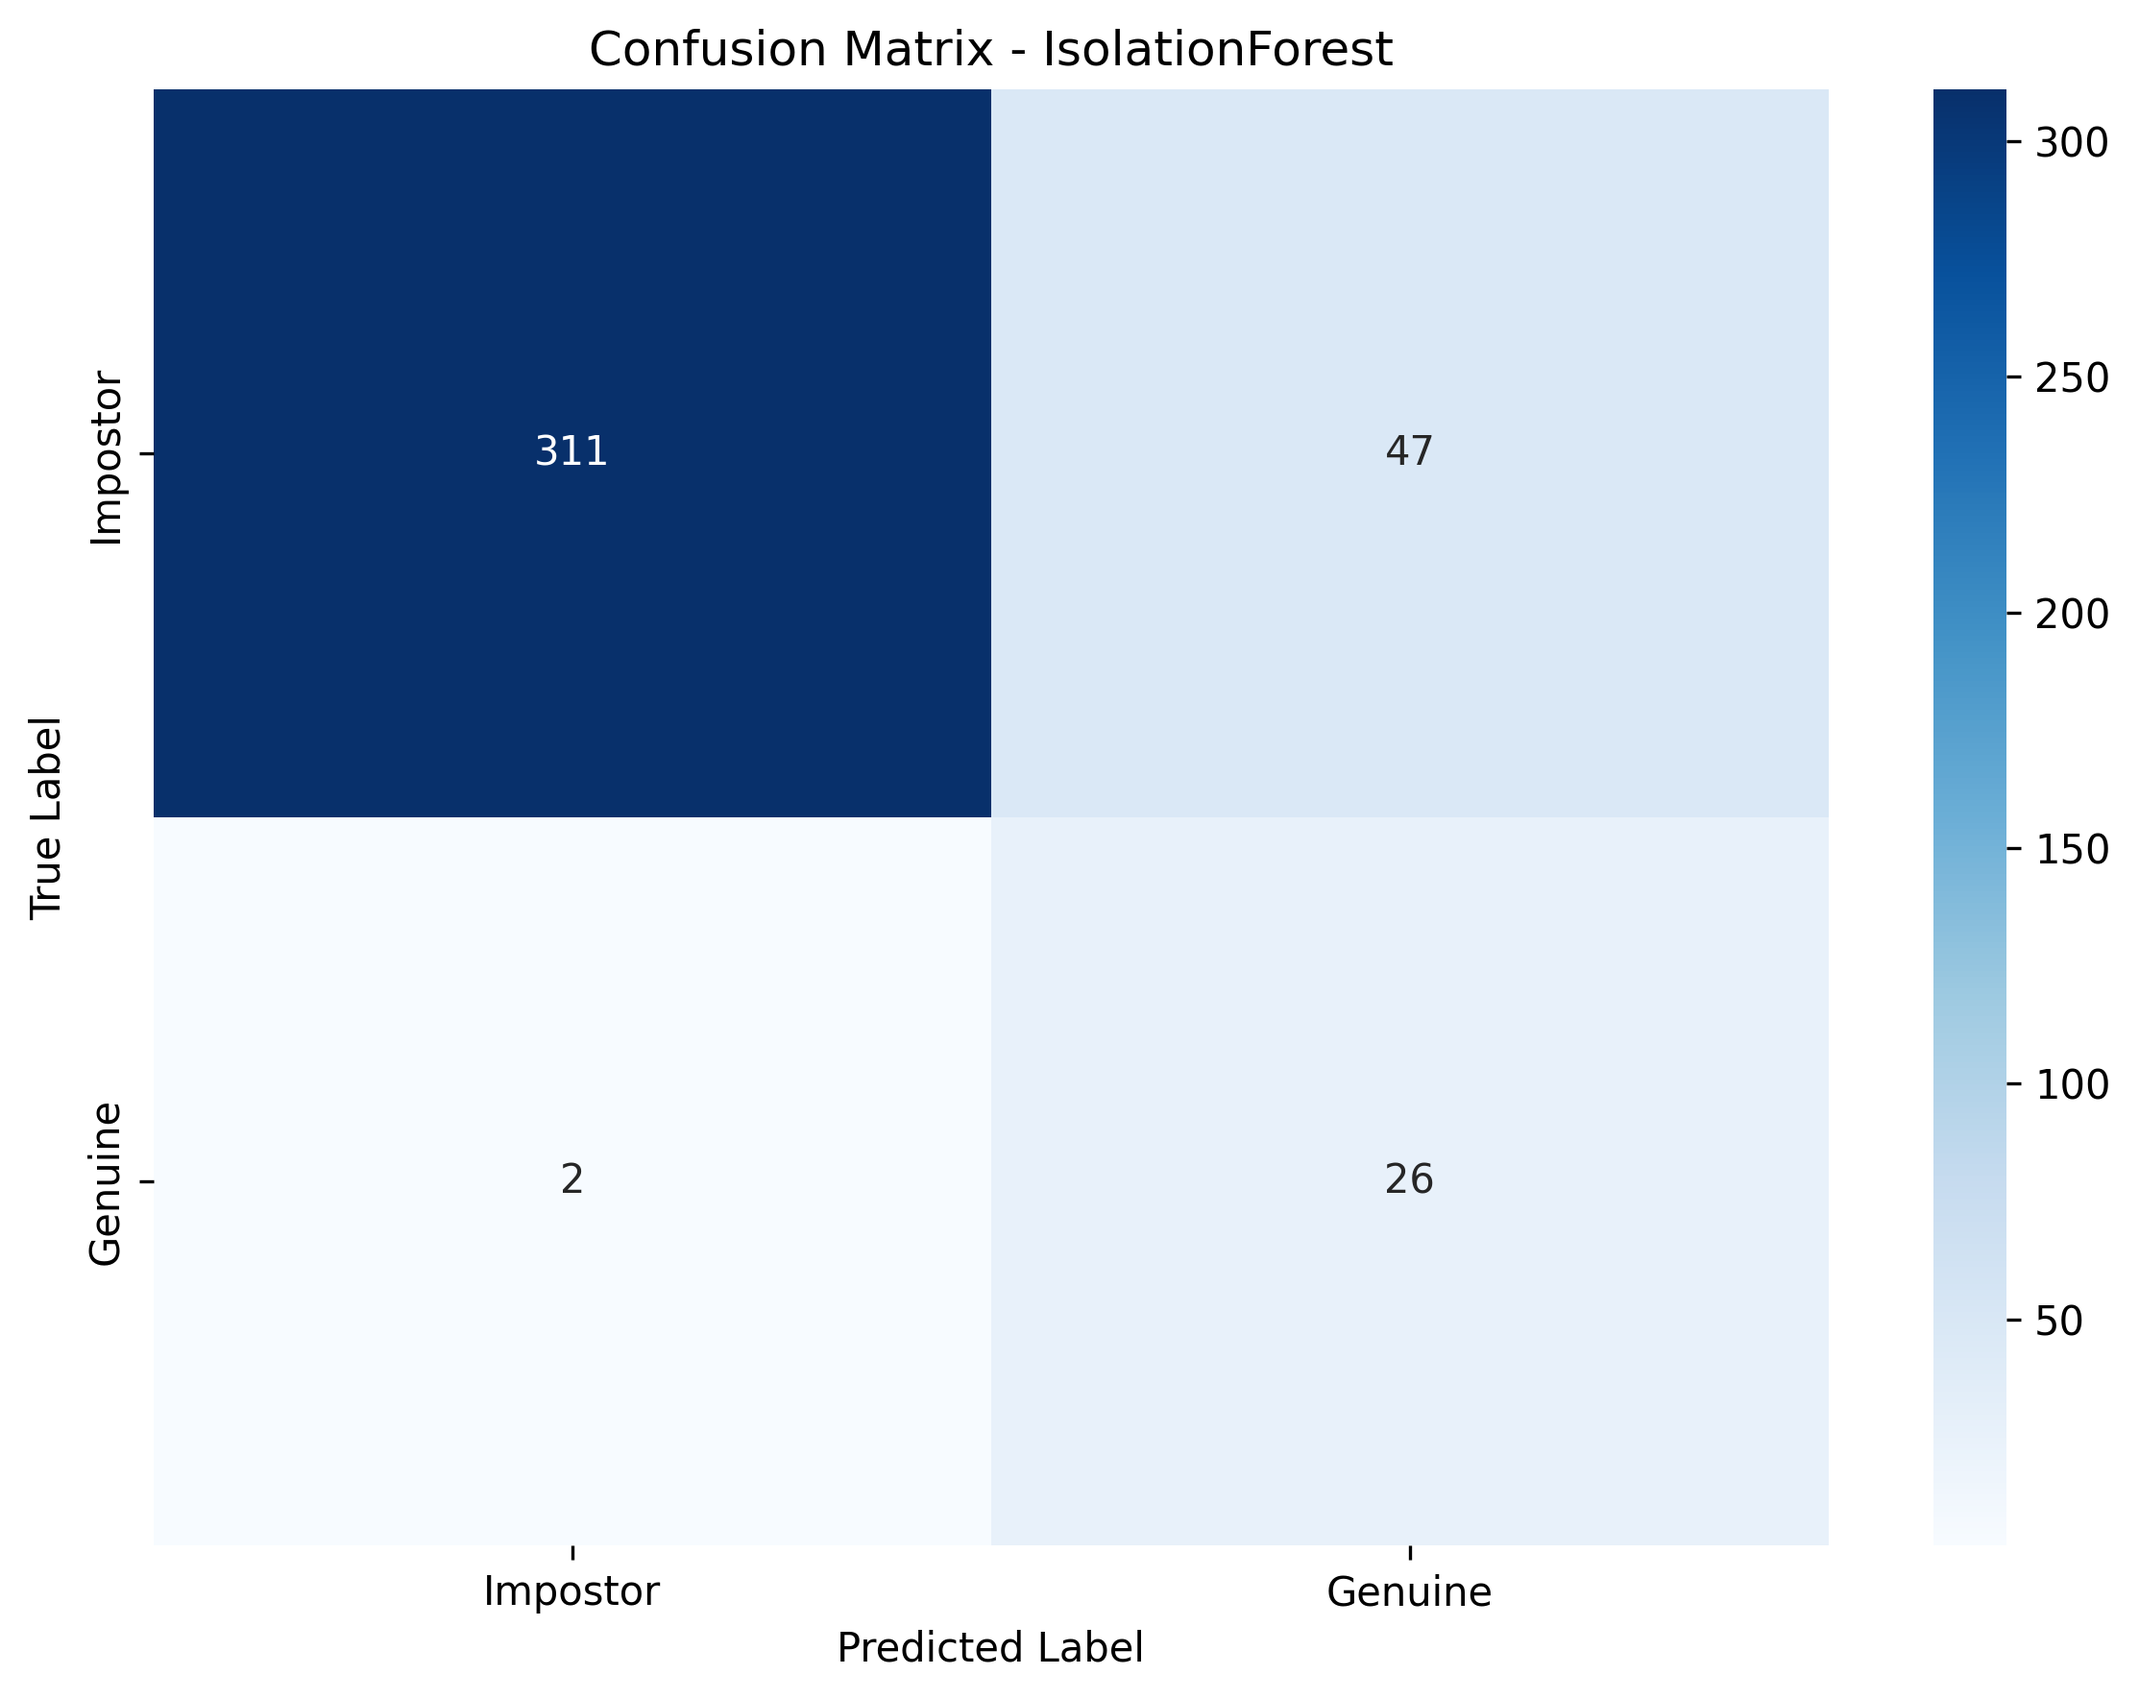
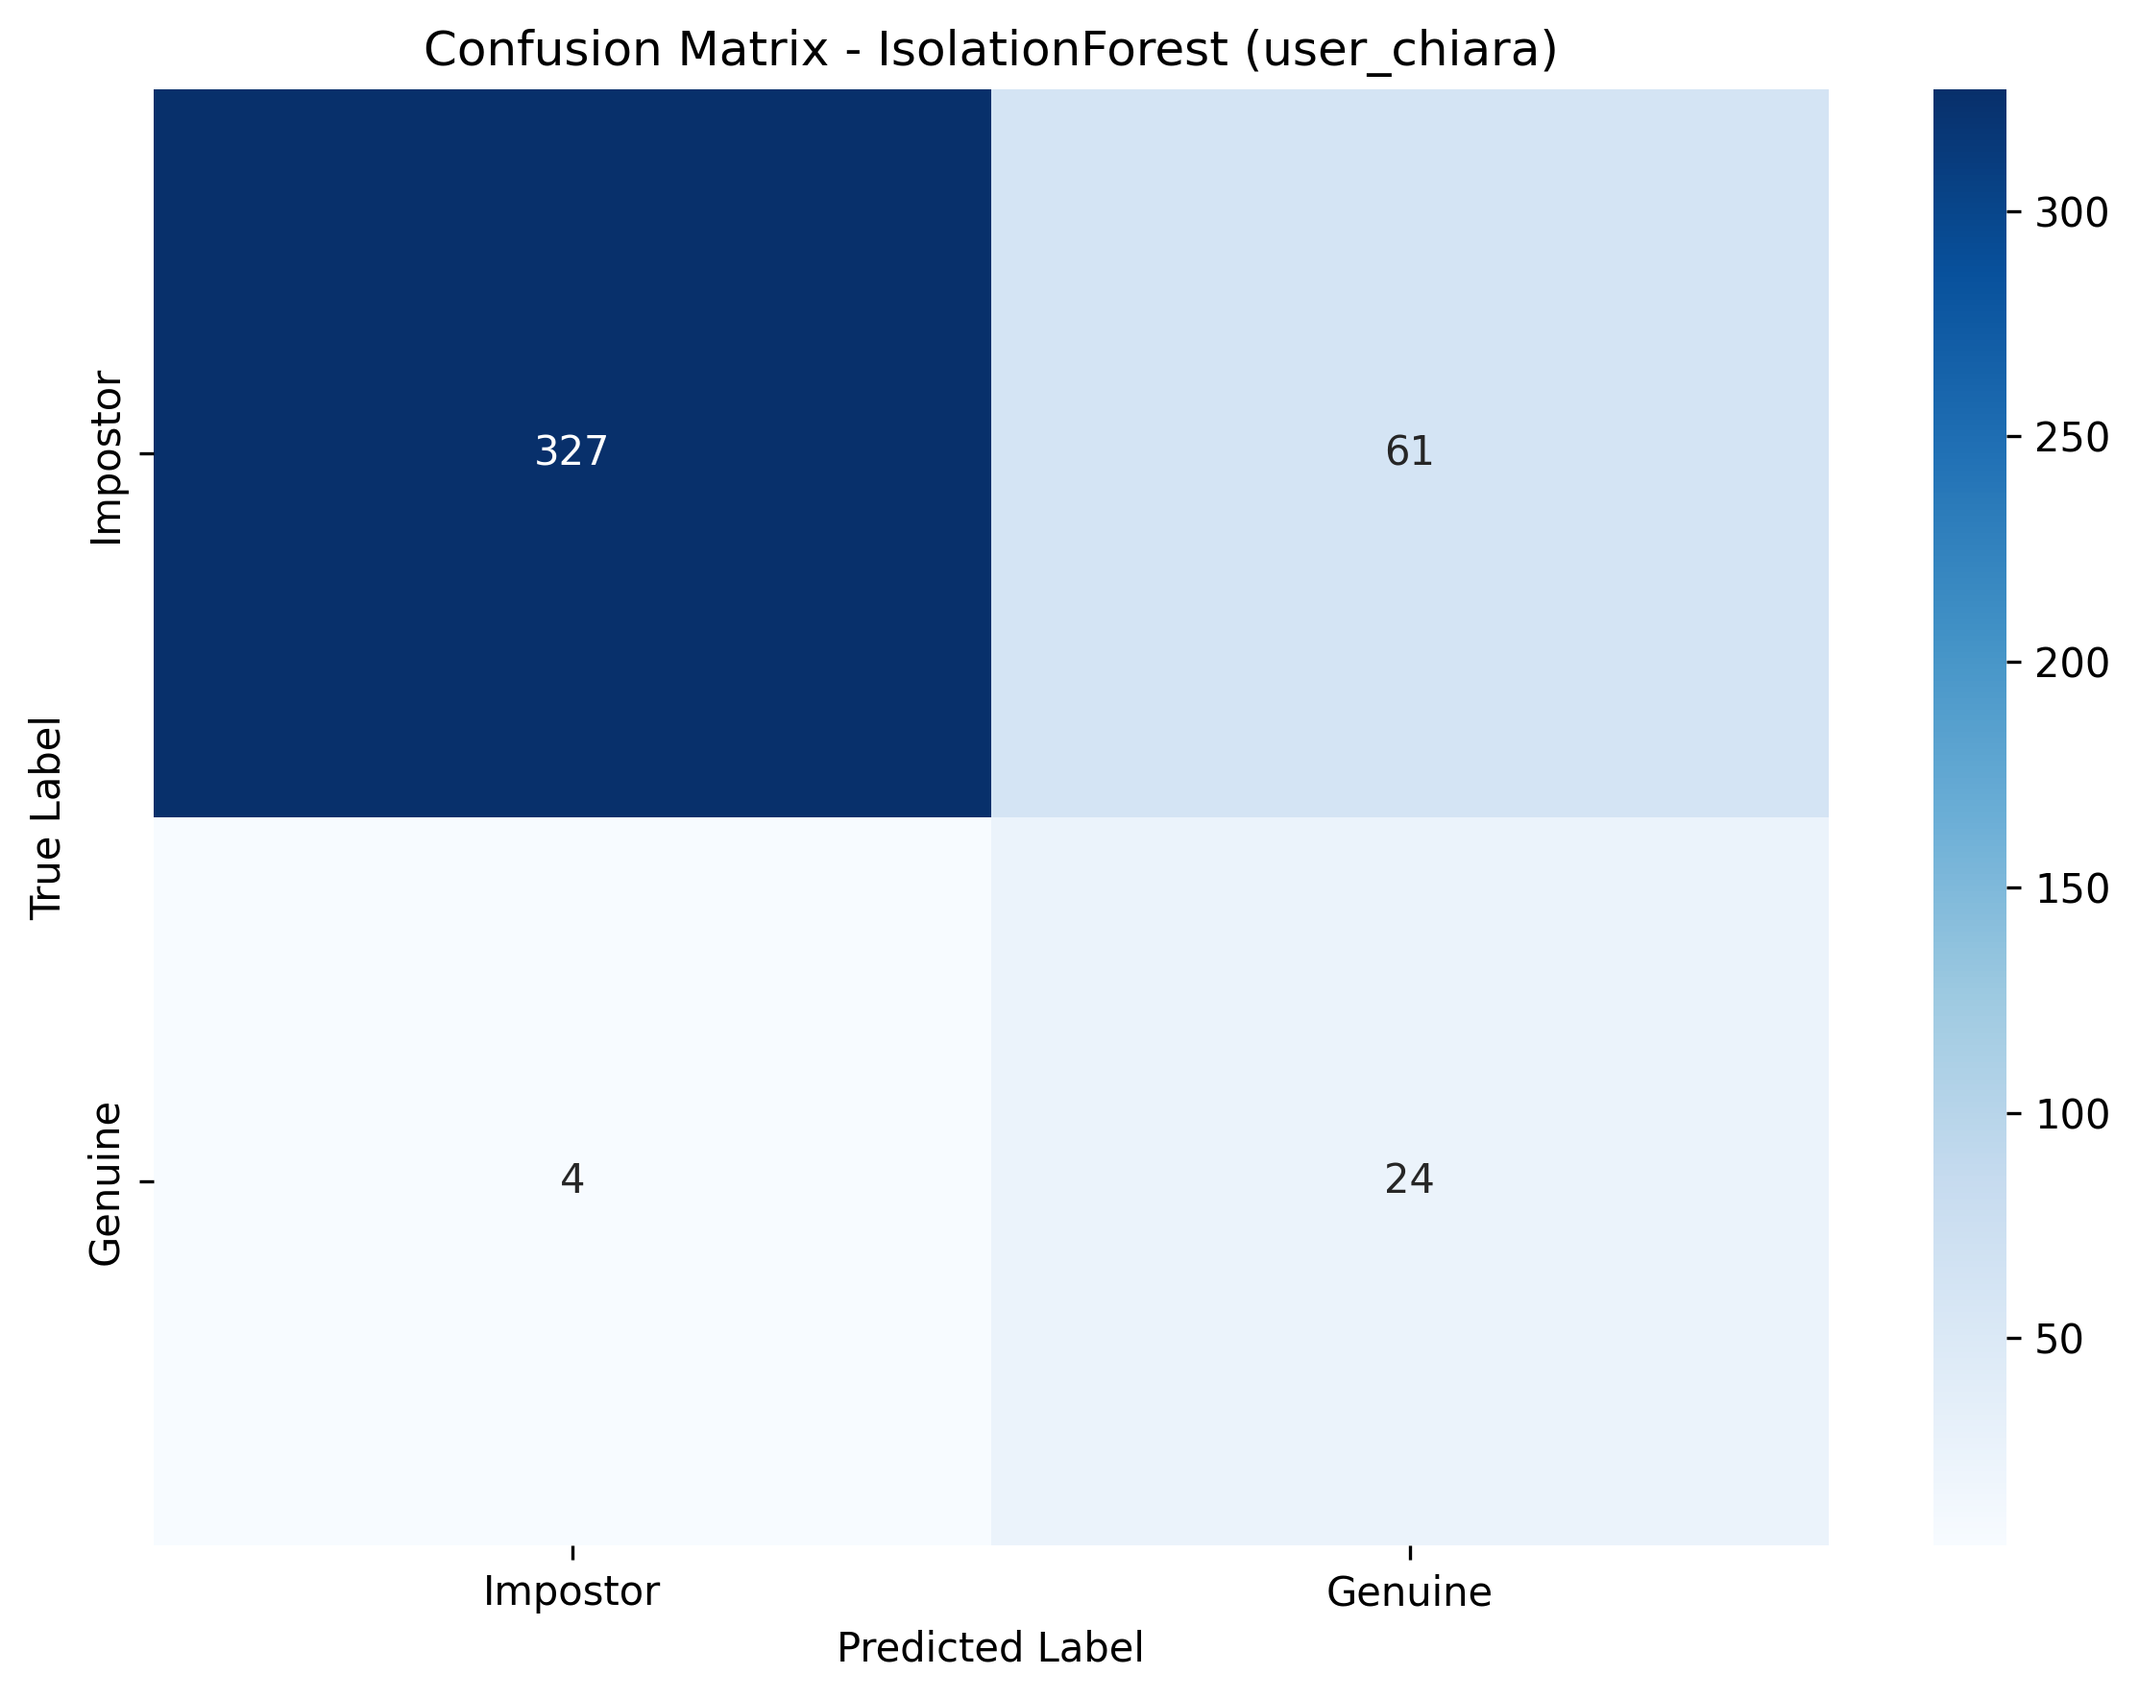
cleaning

diff --git a/model_training.py b/model_training.py
@@ -16,6 +16,7 @@ from sklearn.metrics import classification_report, confusion_matrix
 from sklearn.model_selection import cross_val_score
 import pickle
 import warnings
+import os # Import os to handle paths safely
 warnings.filterwarnings('ignore')
 
 class KeystrokeAuthenticator:
@@ -152,8 +153,8 @@ class KeystrokeAuthenticator:
             plt.legend(loc="lower right")
             plt.grid(True)
             
-            # Save the plot
-            filename = f"roc_curve_{user_name}.png"
+            # Save the plot into 'img' folder
+            filename = os.path.join("img", f"roc_curve_{user_name}.png")
             plt.savefig(filename)
             print(f"✓ ROC Curve saved as '{filename}'")
             plt.close()
@@ -169,7 +170,7 @@ class KeystrokeAuthenticator:
             'AUC': roc_auc
         }
     
-    def plot_confusion_matrix(self, impostor_features_df):
+    def plot_confusion_matrix(self, impostor_features_df, user_name="Unknown"):
         """Plot confusion matrix"""
         # Get predictions (using same alignment logic as evaluate)
         X_genuine = self.features_df[self.feature_columns].fillna(0).values
@@ -191,13 +192,16 @@ class KeystrokeAuthenticator:
         sns.heatmap(cm, annot=True, fmt='d', cmap='Blues', 
                    xticklabels=['Impostor', 'Genuine'],
                    yticklabels=['Impostor', 'Genuine'])
-        plt.title(f'Confusion Matrix - {self.model_type}')
+        plt.title(f'Confusion Matrix - {self.model_type} ({user_name})')
         plt.ylabel('True Label')
         plt.xlabel('Predicted Label')
         plt.tight_layout()
-        plt.savefig('confusion_matrix.png', dpi=300, bbox_inches='tight')
-        print("\n✓ Confusion matrix saved as 'confusion_matrix.png'")
-        # plt.show() 
+        
+        # Save the plot into 'img' folder
+        filename = os.path.join("img", f"confusion_matrix_{user_name}.png")
+        plt.savefig(filename, dpi=300, bbox_inches='tight')
+        print(f"\n✓ Confusion matrix saved as '{filename}'")
+        plt.close() # Close to free up memory
     
     def save_model(self, filename, scaler=None):
         """Save trained model to file"""
@@ -207,8 +211,6 @@ class KeystrokeAuthenticator:
             'feature_columns': self.feature_columns,
             'scaler': scaler
         }
-        
-       
             
         with open(filename, 'wb') as f:
             pickle.dump(model_data, f)
@@ -227,7 +229,6 @@ class KeystrokeAuthenticator:
         # Return the scaler if it exists
         return model_data.get('scaler')
       
-    
     def decision_score(self, new_features):
         if self.model_type == 'OneClassSVM':
             return self.model.decision_function([new_features])[0]

diff --git a/pipeline.py b/pipeline.py
@@ -4,6 +4,7 @@ Features:
 - Multi-user training with Isolation Forest
 - Robust Data Normalization (Fixes the 50% accuracy bug)
 - Feature Alignment
+- Automatic ROC Curve and Confusion Matrix generation
 """
 
 import sys
@@ -22,6 +23,8 @@ GENUINE_DIR = DATA_DIR / "genuine"
 IMPOSTOR_DIR = DATA_DIR / "impostors"
 MODELS_DIR = Path("models")
 MODELS_DIR.mkdir(exist_ok=True)
+IMG_DIR = Path("img")
+IMG_DIR.mkdir(exist_ok=True)
 
 def print_header(title):
     print("\n" + "="*80)
@@ -131,15 +134,16 @@ def main():
         if all_impostor_features:
             impostor_df = pd.concat(all_impostor_features, ignore_index=True)
             
+            # Note: evaluate_with_impostors now generates the ROC curve internally
             metrics = authenticator.evaluate_with_impostors(impostor_df, user_name=user_name)
             metrics['User'] = user_name
             overall_metrics.append(metrics)
             
             try:
-                authenticator.plot_confusion_matrix(impostor_df)
-                if os.path.exists('confusion_matrix.png'):
-                    os.rename('confusion_matrix.png', f'confusion_matrix_{user_name}.png')
-            except: pass
+                # UPDATED: Pass user_name so it saves to the correct filename in img/
+                authenticator.plot_confusion_matrix(impostor_df, user_name=user_name)
+            except Exception as e:
+                print(f"Warning: Could not plot confusion matrix: {e}")
 
     # --- REPORT ---
     print_header("FINAL REPORT")
@@ -151,7 +155,7 @@ def main():
         print(f"\nAVERAGE EER: {results_df['EER'].mean()*100:.2f}%")
         
         best = results_df.loc[results_df['EER'].idxmin()]
-        print(f" Best User: {best['User']} (EER: {best['EER']*100:.2f}%)")
+        print(f"🏆 Best User: {best['User']} (EER: {best['EER']*100:.2f}%)")
 
 if __name__ == "__main__":
     main()
